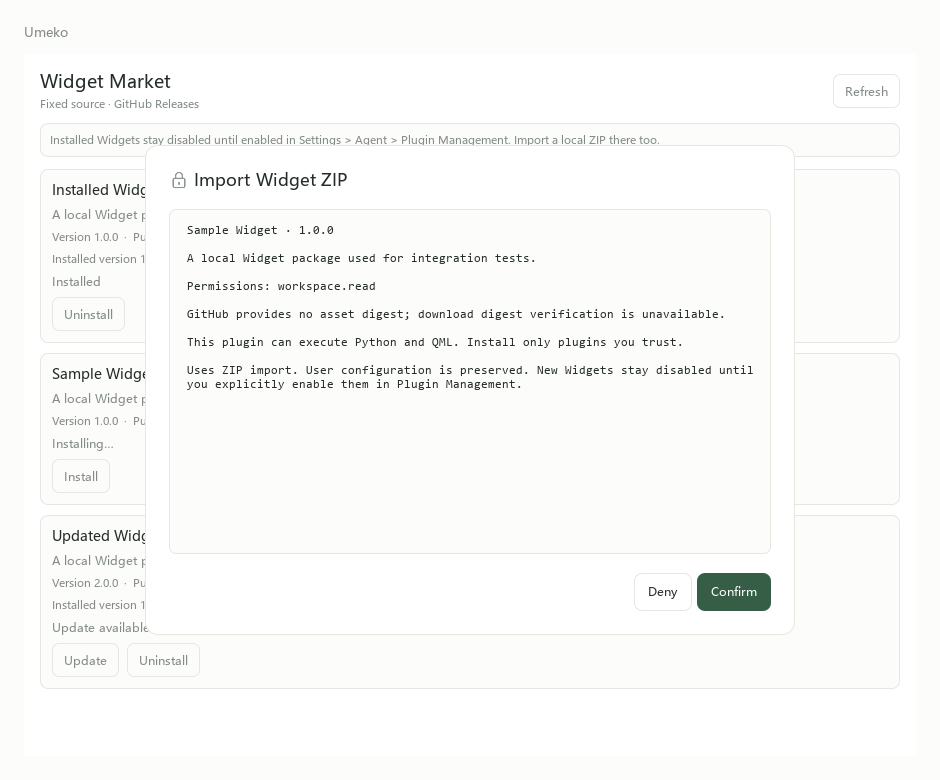
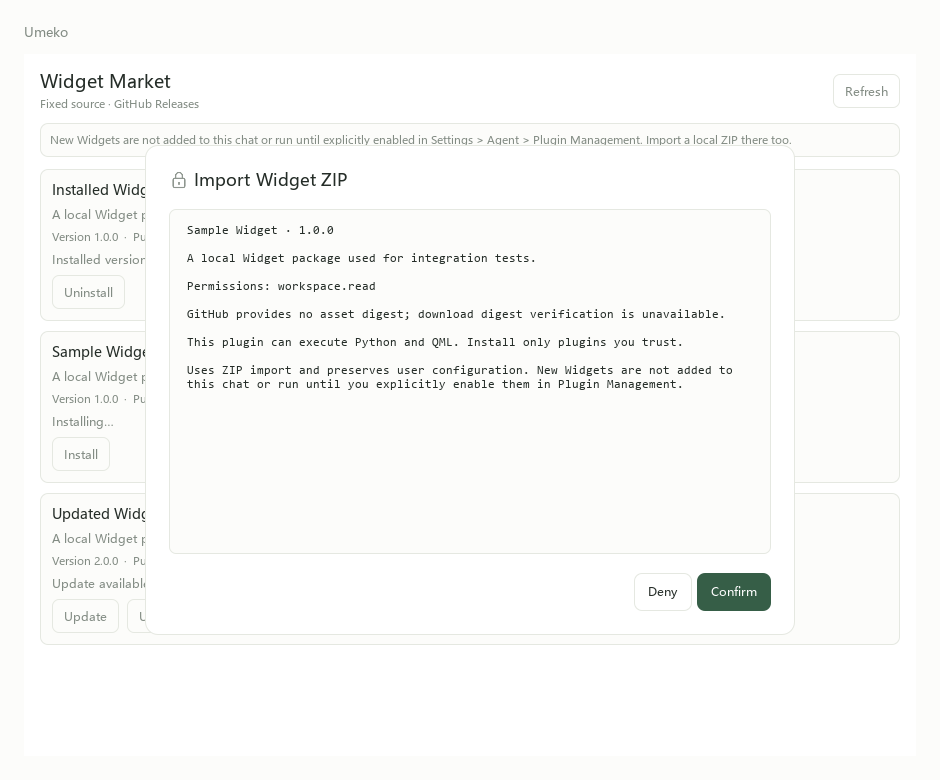
fix(widget-market): 保留手动导入语义并整理市场卡片
撤回额外的全局停用和会话启用联动，沿用 main 的会话显式启用行为；增加手动 ZIP 导入、带构建号版本恢复和关闭后下载清理测试。卡片改为本地日期和单条状态，并补齐中英文安装确认截图。

验证：7 项宿主测试及 3 项真实离屏 QML 测试均连续三轮通过。另一次真实 Billion Context 1.0.0 下载检查确认 GitHub 提供摘要且实际匹配；临时资料已清理。

diff --git a/umeko-plugins/widget-market/qml/Main.qml b/umeko-plugins/widget-market/qml/Main.qml
@@ -21,6 +21,14 @@ Rectangle {
     readonly property bool working: Object.keys(pending).some(key => pending[key].operation !== "market.discard")
 
     function t(zh, en) { return sdk.language.indexOf("zh") === 0 ? zh : en }
+    function localDate(value) {
+        if (!value) return "—"
+        const date = new Date(value)
+        if (isNaN(date.getTime())) return "—"
+        const month = String(date.getMonth() + 1).padStart(2, "0")
+        const day = String(date.getDate()).padStart(2, "0")
+        return String(date.getFullYear()).padStart(4, "0") + "-" + month + "-" + day
+    }
     function setState(id, state, reason) {
         const next = Object.assign({}, localStates)
         if (state) next[id] = {state: state, reason: reason || ""}
@@ -32,8 +40,9 @@ Rectangle {
         if (local && local.state === "installing") return t("正在安装…", "Installing…")
         if (local && local.state === "uninstalling") return t("正在卸载…", "Uninstalling…")
         if (local && local.state === "failed") return t("操作失败：", "Failed: ") + local.reason
-        if (row.state === "update-available") return t("有可用更新", "Update available")
-        if (row.state === "installed") return t("已安装", "Installed")
+        const installed = row.installedVersion ? t("已安装版本 ", "Installed version ") + row.installedVersion : t("已安装", "Installed")
+        if (row.state === "update-available") return t("有可用更新", "Update available") + (row.installedVersion ? " · " + installed : "")
+        if (row.state === "installed") return installed
         return t("未安装", "Not installed")
     }
     function failure(value) {
@@ -196,7 +205,7 @@ Rectangle {
                 id: helpText
                 anchors.fill: parent
                 anchors.margins: 10 * root.sdk.scale
-                text: root.t("安装后默认停用，请到“设置 > Agent > 插件管理”启用。手动导入 ZIP 也在此处。", "Installed Widgets stay disabled until enabled in Settings > Agent > Plugin Management. Import a local ZIP there too.")
+                text: root.t("新安装的 Widget 不会加入当前聊天或运行，请到“设置 > Agent > 插件管理”明确启用。手动导入 ZIP 也在此处。", "New Widgets are not added to this chat or run until explicitly enabled in Settings > Agent > Plugin Management. Import a local ZIP there too.")
                 color: root.sdk.colors.muted
                 font.pixelSize: 11 * root.sdk.scale
             }
@@ -246,16 +255,9 @@ Rectangle {
                         color: root.sdk.colors.muted
                     }
                     Copy {
+                        objectName: "widgetMarketRelease_" + card.modelData.id
                         Layout.fillWidth: true
-                        text: root.t("版本 ", "Version ") + (card.modelData.version || "—") + "  ·  " + root.t("发布于 ", "Published ") + (card.modelData.publishedAt || "—")
-                        color: root.sdk.colors.muted
-                        font.pixelSize: 11 * root.sdk.scale
-                        wrapMode: Text.WrapAnywhere
-                    }
-                    Copy {
-                        Layout.fillWidth: true
-                        visible: !!card.modelData.installedVersion
-                        text: root.t("已安装版本 ", "Installed version ") + (card.modelData.installedVersion || "")
+                        text: root.t("版本 ", "Version ") + (card.modelData.version || "—") + "  ·  " + root.t("发布于 ", "Published ") + root.localDate(card.modelData.publishedAt)
                         color: root.sdk.colors.muted
                         font.pixelSize: 11 * root.sdk.scale
                         wrapMode: Text.WrapAnywhere

diff --git a/tests/test_widget_market_host.py b/tests/test_widget_market_host.py
@@ -2,13 +2,17 @@
 
 Every catalog response and ZIP is local. No model or network calls are made.
 """
+import io
+import json
 from pathlib import Path
 import sys
 import unittest
+import zipfile
 from unittest.mock import patch
 sys.path.insert(0, str(Path(__file__).resolve().parent))
-from PySide6.QtCore import QCoreApplication
+from PySide6.QtCore import QCoreApplication, QUrl
 from widget_market_fixture import Backend, local_catalog, package, request, wait_for, temporary_directory
+from app.desktop_plugins import DesktopPlugins
 
 
 class WidgetMarketHostTests(unittest.TestCase):
@@ -55,7 +59,7 @@ class WidgetMarketHostTests(unittest.TestCase):
             self.assertEqual(approval['id'], key)
             self.assertIn('Permissions: workspace.read', approval['detail'])
             self.assertIn('digest', approval['detail'])
-            self.assertIn('disabled', approval['detail'])
+            self.assertIn('not added to this chat or run', approval['detail'])
             importer.assert_not_called()
             self.host.respondApproval(False)
             wait_for(lambda: key in self.backend.replies, self.app, 'Decline did not reply')
@@ -69,7 +73,9 @@ class WidgetMarketHostTests(unittest.TestCase):
         self.assertTrue(installed['ok'], installed)
         self.assertEqual(importer.call_count, 1)
         row = next(row for row in self.manager.rows if row['id'] == 'sample-widget')
-        self.assertFalse(row['enabled'])
+        self.assertTrue(row['enabled'])
+        self.assertFalse(row['sessionEnabled'])
+        self.assertNotIn('sample-widget', {item['id'] for item in self.manager.sessionPlugins})
         self.assertFalse(row['running'])
         self.manager.settings['config']['sample-widget'] = {'choice': 'retained'}
         self.manager.save()
@@ -87,6 +93,65 @@ class WidgetMarketHostTests(unittest.TestCase):
         uninstall.assert_called_once_with('sample-widget')
         self.assertNotIn('sample-widget', self.manager.entries)
         self.assertFalse((self.manager.root / 'packages/sample-widget').exists())
+
+    def manual_import(self, identifier='manual-widget', version='1.0.0'):
+        manifest, payload = package(identifier, version)
+        manifest['page'] = 'qml/Main.qml'
+        archive = Path(self.temporary.name) / (identifier + '-' + version + '.zip')
+        with zipfile.ZipFile(io.BytesIO(payload)) as source, zipfile.ZipFile(archive, 'w') as target:
+            for name in source.namelist():
+                target.writestr(name, json.dumps(manifest) if name == 'manifest.json' else source.read(name))
+            target.writestr('qml/Main.qml', 'import QtQuick\nItem {}\n')
+        results = {}
+        self.manager.managed.connect(lambda key, value: results.__setitem__(key, value))
+        key = self.manager.importZip(QUrl.fromLocalFile(str(archive)).toString())
+        self.assertTrue(key)
+        wait_for(lambda: key in results, self.app, 'Manual ZIP import did not complete')
+        self.assertTrue(results[key]['ok'], results[key])
+        return identifier
+
+    def test_manual_session_widget_import_retains_main_activation_behavior(self):
+        identifier = self.manual_import()
+        self.assertTrue(self.manager.enabled(identifier))
+        self.assertFalse(self.manager.session_enabled(identifier))
+        self.assertNotIn(identifier, {row['id'] for row in self.manager.sessionPlugins})
+        self.assertNotIn(identifier, self.manager.workers)
+        self.assertNotIn(identifier, self.manager.settings.get('enabled', {}))
+        self.manager.setSessionEnabled(identifier, True)
+        self.assertIn(identifier, {row['id'] for row in self.manager.sessionPlugins})
+        self.assertNotIn(identifier, self.manager.workers, 'Page workers remain lazy until opened')
+        self.assertNotIn(identifier, self.manager.settings.get('enabled', {}))
+        self.manager.setEnabled(identifier, False)
+        self.manager.setSessionEnabled(identifier, False)
+        self.manager.setSessionEnabled(identifier, True)
+        self.assertFalse(self.manager.enabled(identifier), 'Session enabling must not override global disabling')
+        self.assertNotIn(identifier, {row['id'] for row in self.manager.sessionPlugins})
+
+    def test_manual_import_digit_id_and_semver_build_survive_registry_reload(self):
+        identifier = self.manual_import('1-manual-widget', '1.2.3+build.1')
+        restored = DesktopPlugins(self.backend)
+        try:
+            self.assertEqual(restored.entries[identifier]['version'], '1.2.3+build.1')
+            self.assertTrue(restored.enabled(identifier))
+            self.assertFalse(restored.session_enabled(identifier))
+            self.assertNotIn(identifier, {row['id'] for row in restored.sessionPlugins})
+            self.assertNotIn(identifier, restored.workers)
+        finally:
+            restored.close()
+
+    def test_import_completion_after_close_cleans_market_temp_without_ui_changes(self):
+        token = self.prepare()
+        downloaded = Path(self.host._market.prepared[token]['package']['path'])
+        request(self.backend, self.app, 'market.install', {'token': token})
+        self.host.respondApproval(True)
+        self.manager.close()
+        toasts, changes = [], []
+        self.backend.toast.connect(toasts.append)
+        self.manager.changed.connect(lambda: changes.append(True))
+        wait_for(lambda: not self.host._market.imports, self.app, 'Closed import did not clean up')
+        self.assertFalse(downloaded.exists())
+        self.assertEqual(toasts, [])
+        self.assertEqual(changes, [])
 
     def test_only_visible_builtin_market_can_dispatch_and_stale_confirmation_fails(self):
         self.manager.entries['widget-market']['builtin'] = False

diff --git a/tests/test_widget_market_ui.py b/tests/test_widget_market_ui.py
@@ -114,7 +114,7 @@ ApplicationWindow {
         value = expression.evaluate()
         if expression.hasError():
             raise AssertionError(expression.error().toString())
-        return value
+        return value[0] if isinstance(value, tuple) else value
 
     def idle(self):
         wait_for(lambda: self.widget.property('initialized') and not variant(self.widget.property('pending')),
@@ -172,13 +172,31 @@ class WidgetMarketUiTests(unittest.TestCase):
         ui = self.ui
         self.assertEqual(ui.manager.page['id'], 'widget-market')
         self.assertEqual({row['state'] for row in ui.rows()}, {'installed', 'update-available', 'not-installed'})
-        for language, states in [('en', ['Installed', 'Update available', 'Not installed']),
-                                 ('zh', ['已安装', '有可用更新', '未安装'])]:
+        for language, states in [('en', ['Installed version 1.0.0', 'Update available · Installed version 1.0.0', 'Not installed']),
+                                 ('zh', ['已安装版本 1.0.0', '有可用更新 · 已安装版本 1.0.0', '未安装'])]:
             ui.backend._language = language
             ui.backend.changed.emit()
             wait_for(lambda: ui.find('widgetMarketState_installed-widget').property('text') == states[0], self.app, 'Language did not update')
             for identifier, text in zip(('installed-widget', 'updated-widget', 'sample-widget'), states):
                 self.assertEqual(ui.find('widgetMarketState_' + identifier).property('text'), text)
+                row = next(row for row in ui.rows() if row['id'] == identifier)
+                date = ui.js('localDate(' + json.dumps(row['publishedAt']) + ')')
+                self.assertRegex(date, r'^\d{4}-\d{2}-\d{2}$')
+                metadata = ui.find('widgetMarketRelease_' + identifier).property('text')
+                self.assertTrue(metadata.endswith(date))
+                self.assertNotIn(row['publishedAt'], metadata)
+            # Build a local time near midnight, choosing the side that crosses
+            # UTC's calendar boundary whenever the local offset is nonzero.
+            boundary = variant(ui.js('''JSON.parse(JSON.stringify((function() {
+                const offset = new Date(2026, 0, 2).getTimezoneOffset();
+                const date = new Date(2026, 0, 2, offset > 0 ? 23 : 0, offset > 0 ? 45 : 15);
+                const expected = date.getFullYear() + "-" + String(date.getMonth() + 1).padStart(2, "0") + "-" + String(date.getDate()).padStart(2, "0");
+                return {iso: date.toISOString(), expected: expected, offset: date.getTimezoneOffset()};
+            })()))'''))
+            self.assertEqual(ui.js('localDate(' + json.dumps(boundary['iso']) + ')'), boundary['expected'])
+            if boundary['offset'] != 0:
+                self.assertNotEqual(boundary['iso'][:10], boundary['expected'])
+            self.assertEqual(ui.js('localDate("invalid-date")'), '—')
         calls = len(ui.fetch.calls)
         ui.click('widgetMarketRefresh')
         ui.idle()
@@ -199,7 +217,8 @@ class WidgetMarketUiTests(unittest.TestCase):
             ui.idle()
         self.assertEqual(importer.call_count, 1)
         row = next(row for row in ui.manager.rows if row['id'] == 'sample-widget')
-        self.assertFalse(row['enabled'])
+        self.assertFalse(row['sessionEnabled'])
+        self.assertNotIn('sample-widget', {item['id'] for item in ui.manager.sessionPlugins})
         self.assertFalse(row['running'])
         self.assertEqual(next(row for row in ui.rows() if row['id'] == 'sample-widget')['state'], 'installed')
         with patch.object(ui.manager, 'uninstall', wraps=ui.manager.uninstall) as uninstall:
@@ -231,9 +250,8 @@ def capture_documentation():
             ui = MarketUi(directory, language)
             try:
                 ui.capture(ROOT / ('docs/images/widget-market-' + language + '.png'))
-                if language == 'en':
-                    ui.start_install('sample-widget')
-                    ui.capture(ROOT / 'docs/images/widget-market-confirmation-en.png')
+                ui.start_install('sample-widget')
+                ui.capture(ROOT / ('docs/images/widget-market-confirmation-' + language + '.png'))
             finally:
                 ui.close()
     print('WIDGET_MARKET_CAPTURES_OK')

diff --git a/app/desktop_plugins.py b/app/desktop_plugins.py
@@ -200,7 +200,6 @@ class DesktopPlugins(QObject):
         if value:selected.append(identifier)
         if len(selected)>8:self.b.toast.emit('每个会话最多启用 8 个 Umeko 插件');return
         old=copy.deepcopy(self.settings);self.settings.setdefault('sessions',{})[self.storage_key]=selected
-        if value:self.settings.setdefault('enabled',{})[identifier]=True
         if not self.save():self.settings=old;return
         if not value:
             if self._page==identifier:self.closePage()
@@ -460,6 +459,8 @@ class DesktopPlugins(QObject):
                 applied=done(result)
                 if applied is False:result={'ok':False,'error':self._status or '插件设置未能保存'}
                 self.changed.emit();self.b.toast.emit(self._status)
+            # MarketJobs needs completion to clean its ZIP after shutdown too;
+            # UI changes and toasts above remain suppressed when closed.
             self.managed.emit(token,result)
             p.deleteLater()
         p.finished.connect(finish);p.errorOccurred.connect(finish)
@@ -474,7 +475,7 @@ class DesktopPlugins(QObject):
             old_path=self.path(identifier) if identifier in self.entries else None
             if self._page==identifier:self.closePage()
             self.stop(identifier);self.entries[identifier]=m;self.settings.setdefault('config',{}).setdefault(identifier,value['config'])
-            if self.application(identifier) or identifier not in old:self.settings.setdefault('enabled',{})[identifier]=False
+            if self.application(identifier):self.settings.setdefault('enabled',{})[identifier]=False
             if not self.save():self.entries=old;self.settings=options;return False
             if old_path and old_path!=self.path(identifier):
                 import shutil;shutil.rmtree(old_path,ignore_errors=True)

diff --git a/app/widget_market_host.py b/app/widget_market_host.py
@@ -41,8 +41,8 @@ class MarketJobs(QObject):
                 self._tr('权限：', 'Permissions: ') + permissions, digest,
                 self._tr('此插件可执行 Python 和 QML，请仅安装你信任的插件。',
                          'This plugin can execute Python and QML. Install only plugins you trust.'),
-                self._tr('使用现有 ZIP 导入流程。用户配置会保留；新安装的 Widget 默认停用，请在插件管理中明确启用。',
-                         'Uses ZIP import. User configuration is preserved. New Widgets stay disabled until you explicitly enable them in Plugin Management.')))}
+                self._tr('使用现有 ZIP 导入流程并保留用户配置。新安装的 Widget 不会加入当前会话或运行，请在插件管理中明确启用。',
+                         'Uses ZIP import and preserves user configuration. New Widgets are not added to this chat or run until you explicitly enable them in Plugin Management.')))}
         identifier = args['id']
         entry = self.m.entries.get(identifier, {})
         if not entry or entry.get('builtin'):

diff --git a/umeko-plugins/widget-market/README.md b/umeko-plugins/widget-market/README.md
@@ -4,10 +4,10 @@
 
 点击安装或更新后，宿主下载并检查 ZIP，再显示权限、摘要核对结果和安装确认。取消后不会安装。Widget 只发起 `market.list`、`market.prepare`、`market.install`、`market.discard` 和 `market.uninstall`，不自行安装、执行下载内容或处理确认。关闭页面会尽可能丢弃待安装包。
 
-安装后默认停用，请到 **设置 > Agent > 插件管理** 启用。需要导入本地 ZIP 时，也从这里手动导入。
+新导入的会话 Widget 沿用手动导入行为：全局可用，但不会加入当前会话、出现在会话菜单或运行，请到 **设置 > Agent > 插件管理** 明确启用。应用级插件仍默认全局停用。需要导入本地 ZIP 时，也从这里手动导入。
 
 Open from Widgets to browse [umeko-desktop-widgets GitHub Releases](https://github.com/umeiko/umeko-desktop-widgets/releases). Opening uses the disk cache for ten minutes, then requests a fresh list. Refresh explicitly bypasses the cache window. There is no startup networking, background polling, search, ratings or source selector.
 
 Install or Update asks Umeko to download and validate the ZIP, then show permissions, the digest verification result and installation confirmation. Canceling does not install it. This Widget only calls `market.list`, `market.prepare`, `market.install`, `market.discard` and `market.uninstall`; it does not install or run downloaded content or provide its own confirmation. Leaving the page discards pending packages when possible.
 
-Installed Widgets remain disabled until enabled in **Settings > Agent > Plugin Management**. Use the same settings page to import a local ZIP manually.
+New session Widgets follow manual ZIP import: globally available, but not enabled in the current chat, shown in its menu or run until explicitly enabled in **Settings > Agent > Plugin Management**. Application plugins remain globally disabled on import. Use the same settings page to import a local ZIP manually.
